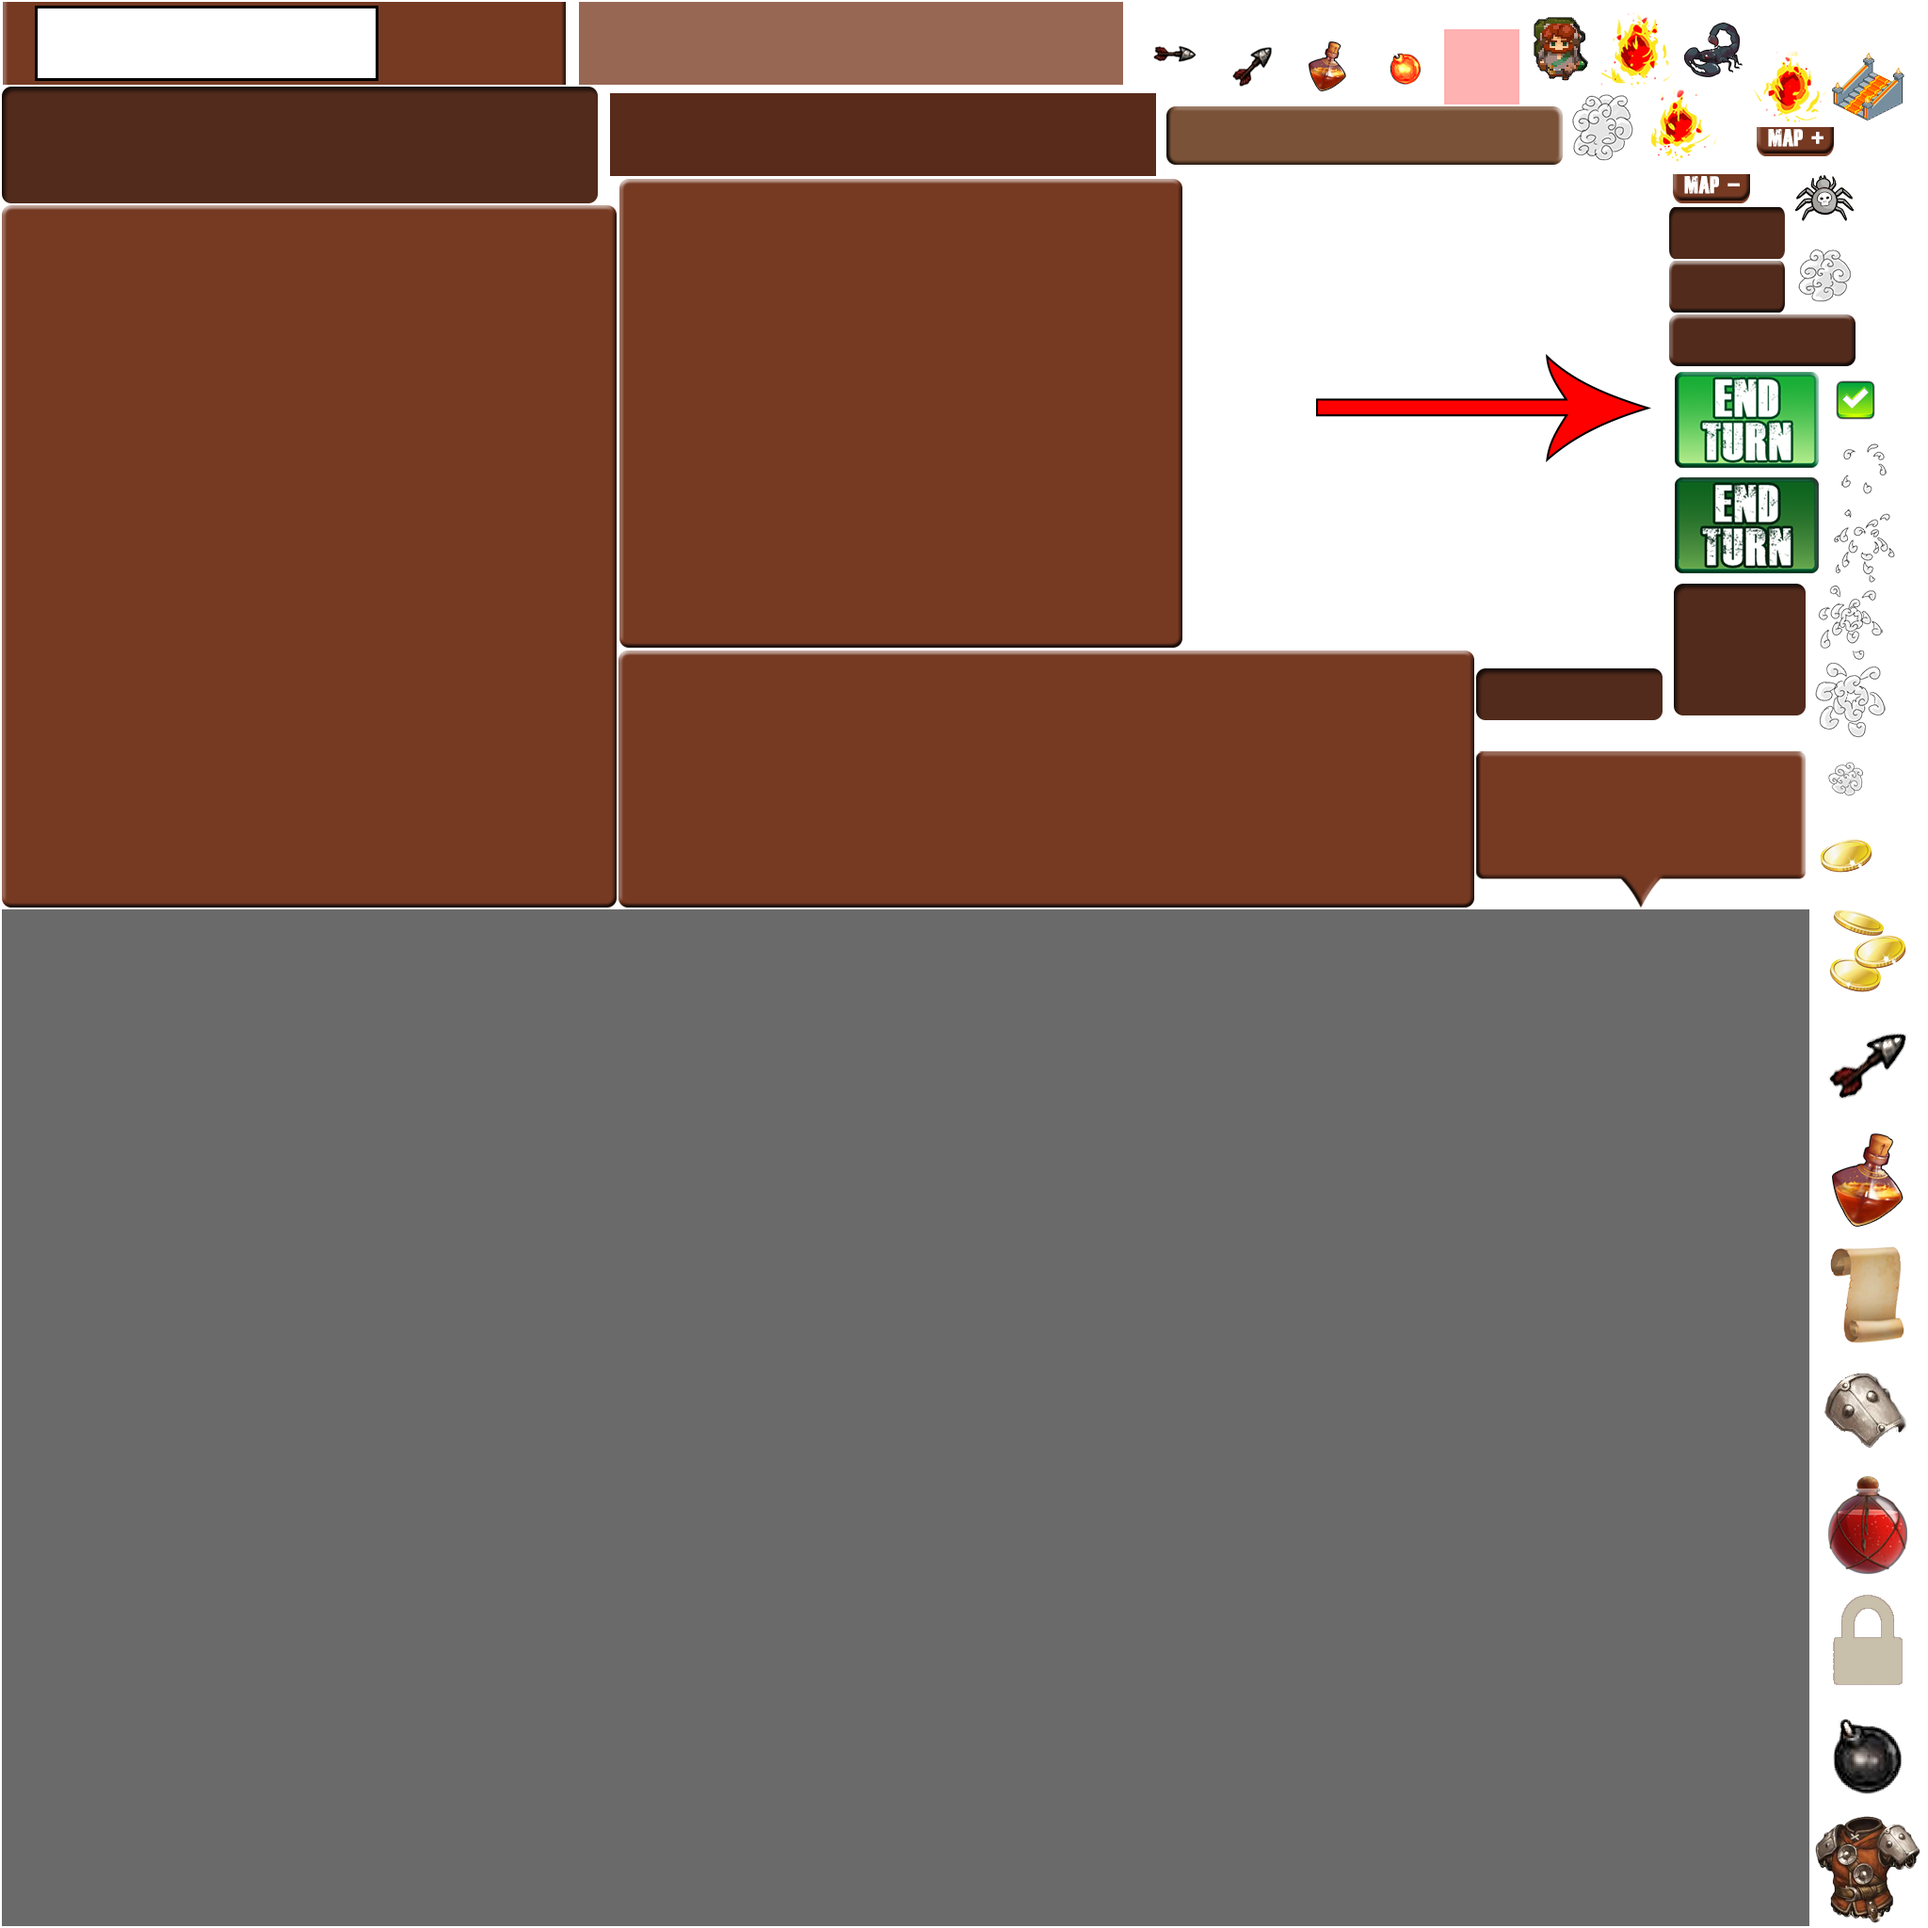
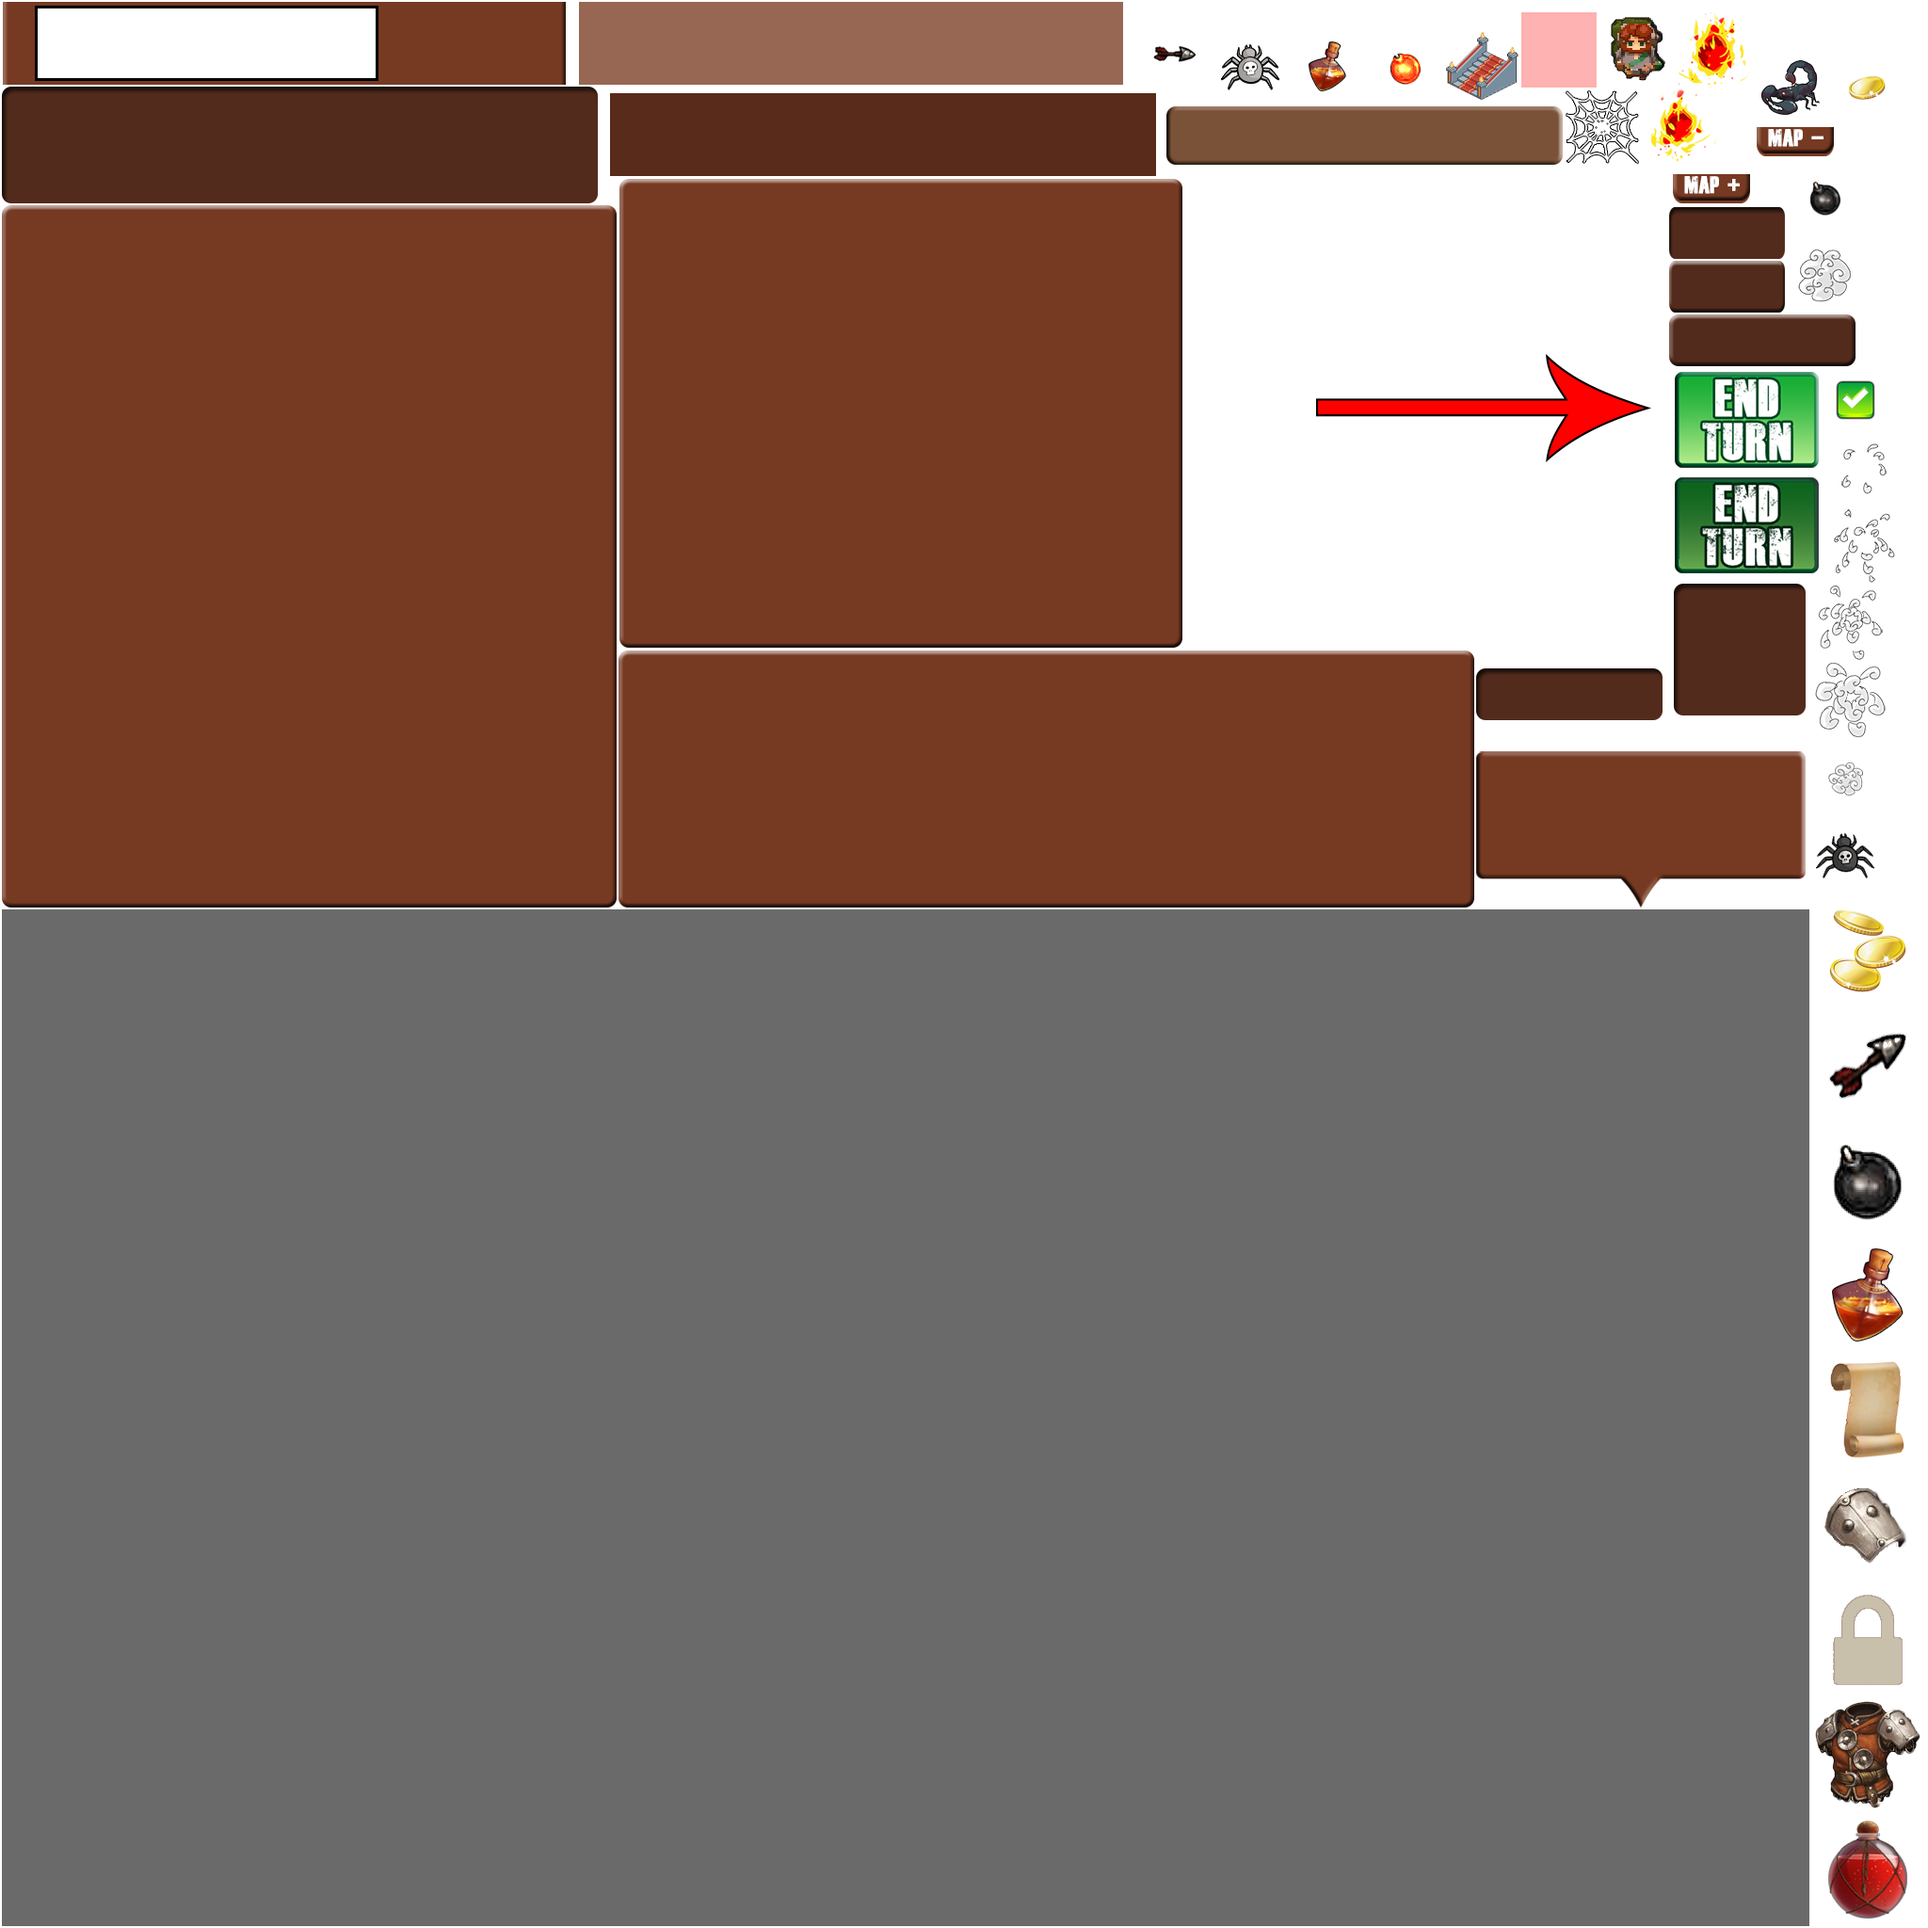
[HUD] Improved ammo display + improved pickup animation of money and ammos.

diff --git a/core/src/com/dokkaebistudio/tacticaljourney/enums/items/ItemEnum.java b/core/src/com/dokkaebistudio/tacticaljourney/enums/items/ItemEnum.java
@@ -7,13 +7,13 @@ import com.badlogic.gdx.math.Vector2;
 import com.dokkaebistudio.tacticaljourney.Assets;
 import com.dokkaebistudio.tacticaljourney.components.HealthComponent;
 import com.dokkaebistudio.tacticaljourney.components.TileComponent;
-import com.dokkaebistudio.tacticaljourney.components.TileComponent.TileEnum;
 import com.dokkaebistudio.tacticaljourney.components.display.GridPositionComponent;
 import com.dokkaebistudio.tacticaljourney.components.item.ItemComponent;
 import com.dokkaebistudio.tacticaljourney.components.player.AmmoCarrierComponent;
 import com.dokkaebistudio.tacticaljourney.components.player.InventoryComponent;
 import com.dokkaebistudio.tacticaljourney.components.player.WalletComponent;
 import com.dokkaebistudio.tacticaljourney.enums.AmmoTypeEnum;
+import com.dokkaebistudio.tacticaljourney.rendering.HUDRenderer;
 import com.dokkaebistudio.tacticaljourney.room.Room;
 import com.dokkaebistudio.tacticaljourney.util.Mappers;
 import com.dokkaebistudio.tacticaljourney.util.TileUtil;
@@ -28,7 +28,7 @@ import com.dokkaebistudio.tacticaljourney.util.TileUtil;
 public enum ItemEnum {
 		
 	/** Add money to the player's wallet. */
-	MONEY(" # gold coin[s]", Assets.money_item, true, false, 1, 5) {
+	MONEY("# gold coin[s]", Assets.money_item, true, false, 1, 5) {
 
 		@Override
 		public String getDescription() {return null;}
@@ -44,10 +44,15 @@ public enum ItemEnum {
 			walletComponent.receive(itemComponent.getQuantity());
 			return true;
 		}
+		
+		@Override
+		public Vector2 getPickupImageMoveDestination() {
+			return HUDRenderer.POS_MONEY;
+		}
 	},
 	
 	/** Add arrows to the player's quiver. */
-	ARROW(" # arrow[s]", Assets.arrow_item, false, false, 1, 5) {
+	ARROW("# arrow[s]", Assets.arrow_item, false, false, 1, 5) {
 
 		@Override
 		public String getDescription() {
@@ -69,10 +74,15 @@ public enum ItemEnum {
 
 			return remainingArrows == 0;
 		}
+		
+		@Override
+		public Vector2 getPickupImageMoveDestination() {
+			return HUDRenderer.POS_ARROW_SPRITE;
+		}
 	},
 	
 	/** Add bombs to the player's bag. */
-	BOMB(" # bomb[s]", Assets.bomb_item, false, false, 1, 2) {
+	BOMB("# bomb[s]", Assets.bomb_item, false, false, 1, 2) {
 
 		@Override
 		public String getDescription() {
@@ -93,6 +103,11 @@ public enum ItemEnum {
 			itemComponent.setQuantity(remainingBombs);
 
 			return remainingBombs == 0;
+		}
+		
+		@Override
+		public Vector2 getPickupImageMoveDestination() {
+			return HUDRenderer.POS_BOMB_SPRITE;
 		}
 	},
 	
@@ -388,6 +403,14 @@ public enum ItemEnum {
 	
 	/** Return the label on the action button for the item. */
 	public abstract String getActionLabel();
+	
+	/** Return the location of the HUD element where the item is moved when picked up.
+	 * Default is the inventory, but for money or ammos it's different.
+	 * @return the location
+	 */
+	public Vector2 getPickupImageMoveDestination() {
+		return HUDRenderer.POS_INVENTORY;
+	}
 	
 	
 	

diff --git a/core/src/com/dokkaebistudio/tacticaljourney/rendering/HUDRenderer.java b/core/src/com/dokkaebistudio/tacticaljourney/rendering/HUDRenderer.java
@@ -47,6 +47,11 @@ public class HUDRenderer implements Renderer, RoomSystem {
 	public static Vector2 POS_END_TURN_BTN = new Vector2(5f, 5f);
 	public static Vector2 POS_MONEY = new Vector2(730f,1000f);
 	public static Vector2 POS_ARROW_SPRITE = new Vector2(1050f,1000f);
+	public static Vector2 POS_BOMB_SPRITE = new Vector2(1230f,1000f);
+
+	
+	public static Vector2 POS_INVENTORY = new Vector2(780f, 30f);
+
 
 
 	public Stage stage;
@@ -90,8 +95,9 @@ public class HUDRenderer implements Renderer, RoomSystem {
 	private Button bombSkillButton;
 	
 	// Ammos
-	private Table ammoTable;
+	private Table ammoArrowTable;
 	private Label arrowLabel;
+	private Table ammoBombTable;
 	private Label bombLabel;
 
 	public HUDRenderer(Stage s, Entity player) {
@@ -604,34 +610,34 @@ public class HUDRenderer implements Renderer, RoomSystem {
 	private void displayAmmos() {
 		AmmoCarrierComponent ammoCarrierComponent = Mappers.ammoCarrierComponent.get(player);
 		
-		if (ammoTable == null) {
-			ammoTable = new Table();
-			ammoTable.setPosition(POS_ARROW_SPRITE.x, POS_ARROW_SPRITE.y);
+		if (ammoArrowTable == null) {
+			ammoArrowTable = new Table();
+			ammoArrowTable.setPosition(POS_ARROW_SPRITE.x, POS_ARROW_SPRITE.y);
 			
 			// Arrows
-			Table arrowTable = new Table();
-
 			Image arrowImage = new Image(Assets.getTexture(Assets.arrow_item));
-			arrowTable.add(arrowImage).uniformX();
+			ammoArrowTable.add(arrowImage).uniformX();
 			
 			arrowLabel = new Label("", PopinService.hudStyle());
-			arrowTable.add(arrowLabel).left().uniformX();
+			ammoArrowTable.add(arrowLabel).left().uniformX();
 			
-			ammoTable.add(arrowTable).uniformX();
-			
+			ammoArrowTable.pack();
+			stage.addActor(ammoArrowTable);
+		}
+		
+		if (ammoBombTable == null) {
+			ammoBombTable = new Table();
+			ammoBombTable.setPosition(POS_BOMB_SPRITE.x, POS_BOMB_SPRITE.y);
+
 			// Bombs
-			Table bombTable = new Table();
 			Image bombImage = new Image(Assets.getTexture(Assets.bomb_item));
-			bombTable.add(bombImage).uniformX();
+			ammoBombTable.add(bombImage).uniformX();
 			
 			bombLabel = new Label("", PopinService.hudStyle());
-			bombTable.add(bombLabel).left().uniformX();
-			
-			ammoTable.add(bombTable).uniformX();
-			
+			ammoBombTable.add(bombLabel).left().uniformX();			
 
-			ammoTable.pack();
-			stage.addActor(ammoTable);
+			ammoBombTable.pack();
+			stage.addActor(ammoBombTable);
 		}
 		
 		arrowLabel.setText(ammoCarrierComponent.getArrows() + "/" + ammoCarrierComponent.getMaxArrows());

diff --git a/core/src/com/dokkaebistudio/tacticaljourney/components/item/ItemComponent.java b/core/src/com/dokkaebistudio/tacticaljourney/components/item/ItemComponent.java
@@ -138,7 +138,8 @@ public class ItemComponent implements Component, Poolable {
 			};
 	
 			float duration = 0.1f * i;
-			pickupImage.addAction(Actions.sequence(Actions.moveBy(0, 0, duration), Actions.moveTo(780, 30, 0.75f, Interpolation.circle),
+			Vector2 moveDest = itemComponent.getItemType().getPickupImageMoveDestination();
+			pickupImage.addAction(Actions.sequence(Actions.moveBy(0, 0, duration), Actions.moveTo(moveDest.x, moveDest.y, 0.75f, Interpolation.circle),
 					removeImageAction));
 				
 			this.pickupAnimationImages.add(pickupImage);

diff --git a/core/src/com/dokkaebistudio/tacticaljourney/room/generation/RoomGenerator.java b/core/src/com/dokkaebistudio/tacticaljourney/room/generation/RoomGenerator.java
@@ -280,7 +280,9 @@ public class RoomGenerator {
 			entityFactory.itemFactory.createItemArmorPiece(room, new Vector2(6, 5));
 
 			
-			//entityFactory.itemFactory.createItemArrows(room, new Vector2(16, 8));
+			entityFactory.itemFactory.createItemArrows(room, new Vector2(16, 8));
+			entityFactory.itemFactory.createItemBombs(room, new Vector2(17, 8));
+
 			Entity money = entityFactory.itemFactory.createItemMoney(room, new Vector2(9, 10));
 			Mappers.itemComponent.get(money).setQuantity(10);
 			

diff --git a/core/src/com/dokkaebistudio/tacticaljourney/systems/ItemSystem.java b/core/src/com/dokkaebistudio/tacticaljourney/systems/ItemSystem.java
@@ -191,7 +191,7 @@ public class ItemSystem extends EntitySystem implements RoomSystem {
 				boolean instaUsed = itemComponent.use(player, currentItem, room);
 				
 				if (instaUsed) {
-					System.out.println("Insta used " + itemComponent.getItemType().getLabel());
+					System.out.println("Insta used " + itemComponent.getItemLabel());
 
 					room.getRemovedItems().add(currentItem);
 					room.removeEntity(currentItem);
